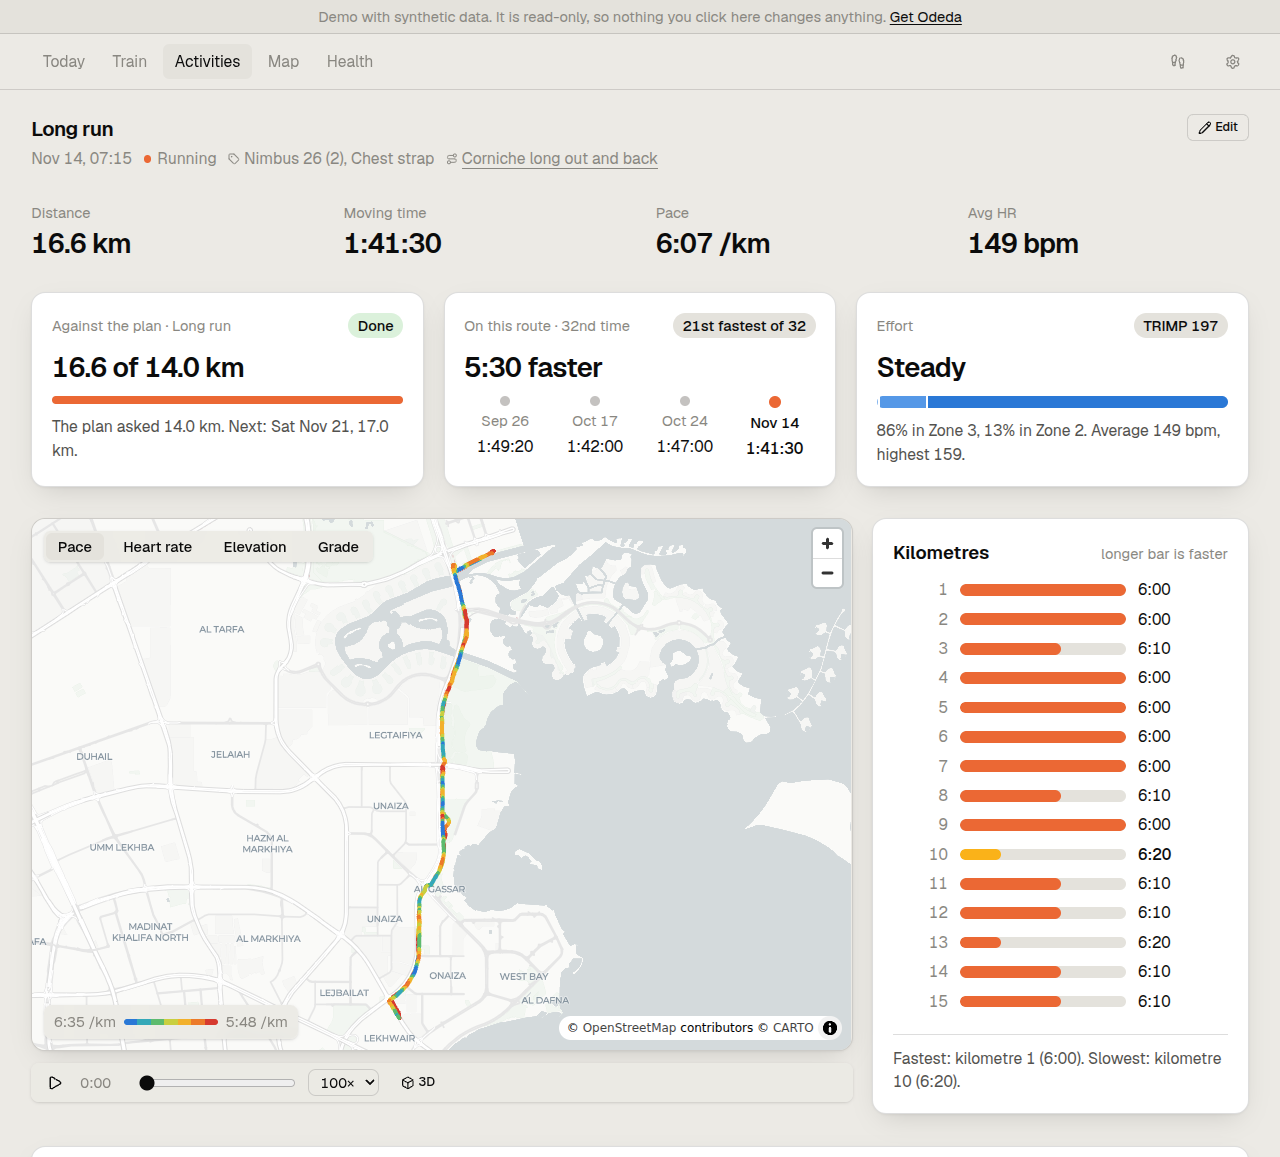
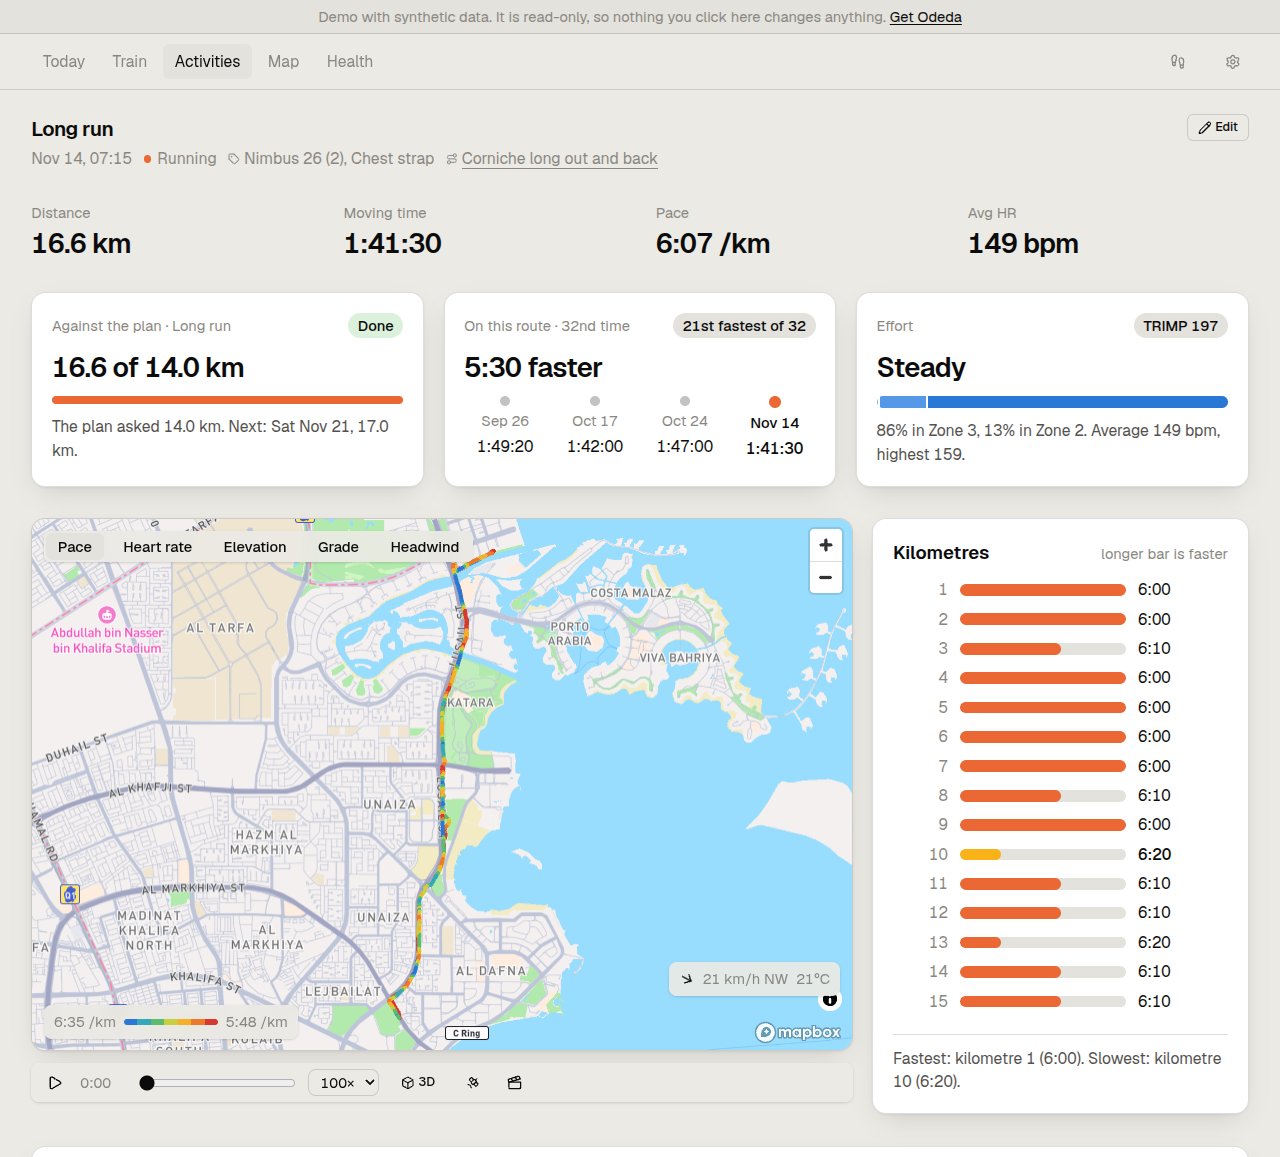
Mapbox maps on the demo, token kept off the page (#7)
The public demo now uses Mapbox maps, and the token never reaches a
visitor's browser.

**How:** `VITE_MAPBOX_PROXY=/mapbox` makes the Mapbox library ask this
site for map data (style, tiles, fonts, sprites, static images). The
demo's nginx edge adds the token on the server.

**Against abuse**
- The token is not in the page code, so there is nothing to scrape.
- Only map paths pass: styles under `mapbox/`, vector and raster tiles,
fonts, sprites, map sessions. Geocoding, directions, other accounts'
styles and write methods are refused (403). The check is on the path as
the visitor sent it, and dots or encoded slashes are refused outright.
- Limits per visitor on everything (40 requests a second), and tighter
on what costs credits (a map starting, a static image: 2 a second per
visitor, 5 a second in total). Over the limit gets 429.
- Telemetry the page would send is swallowed.
- The edge sends a `Referer` of the demo's own address, so a token
restricted to that address works.

**Cannot do:** nginx limits speed, not a monthly total. Make a token
just for the demo, restricted to `https://odeda.run/*`, and set a usage
alert in the Mapbox account. This is written into
`deploy/demo/README.md`.

**Also:** Google Maps as a later basemap choice is in `FUTURE.md`
(section 22). README screenshots retaken from the live demo. Without
`VITE_MAPBOX_PROXY` nothing changes for a normal install.

**Checked:** the map, list and activity pages through https://odeda.run
[…]

Changed region(s): [[0.0, 0.4356, 0.6875, 0.9334], [0.0312, 0.9023, 0.0625, 0.9334]]

diff --git a/frontend/src/map/mapboxProxy.ts b/frontend/src/map/mapboxProxy.ts
@@ -1,0 +1,43 @@
+// Behind a proxy (`VITE_MAPBOX_PROXY`), every request the Mapbox library makes goes to this
+// site instead, and the server adds the token. The token is then never in the page, and the
+// server can limit how fast anyone may pull map data. See `deploy/demo/nginx.conf.template`.
+
+const MAPBOX_API = /^https:\/\/api\.mapbox\.com\//;
+const MAPBOX_TILES = /^https:\/\/[a-d]\.tiles\.mapbox\.com\//;
+const MAPBOX_EVENTS = /^https:\/\/events\.mapbox\.com\//;
+
+/**
+ * Where a Mapbox request should really go. Anything that is not a Mapbox address is returned
+ * unchanged. The access token the library put on the address is dropped: the proxy has its own.
+ * Telemetry is sent to the proxy's `/events`, which swallows it.
+ */
+export function proxiedUrl(url: string, proxy: string, origin = ""): string {
+  if (proxy === "") return url;
+  // The Mapbox library fetches from background workers, which cannot resolve a relative
+  // address, so the proxy is given with this site's origin.
+  proxy = origin + proxy;
+  if (MAPBOX_EVENTS.test(url)) return `${proxy}/events`;
+  const prefix = MAPBOX_API.test(url)
+    ? `${proxy}/api/`
+    : MAPBOX_TILES.test(url)
+      ? `${proxy}/tiles/`
+      : null;
+  if (prefix === null) return url;
+  const rest = url.replace(MAPBOX_API, "").replace(MAPBOX_TILES, "");
+  return prefix + withoutToken(rest);
+}
+
+/** The path and query with any `access_token` parameter removed. */
+function withoutToken(pathAndQuery: string): string {
+  const at = pathAndQuery.indexOf("?");
+  if (at < 0) return pathAndQuery;
+  const path = pathAndQuery.slice(0, at);
+  const query = pathAndQuery.slice(at + 1);
+  const kept = query.split("&").filter((pair) => !pair.startsWith("access_token="));
+  return kept.length > 0 ? `${path}?${kept.join("&")}` : path;
+}
+
+/** `transformRequest` for the Mapbox library: the proxied address, nothing else changed. */
+export function transformThroughProxy(proxy: string, origin: string = window.location.origin) {
+  return (url: string): { url: string } => ({ url: proxiedUrl(url, proxy, origin) });
+}

diff --git a/frontend/src/map/mapboxProxy.test.ts b/frontend/src/map/mapboxProxy.test.ts
@@ -1,0 +1,58 @@
+import { describe, expect, it } from "vitest";
+import { proxiedUrl } from "@/map/mapboxProxy";
+
+describe("proxiedUrl", () => {
+  it("changes nothing without a proxy", () => {
+    const url = "https://api.mapbox.com/styles/v1/mapbox/standard?access_token=pk.real";
+    expect(proxiedUrl(url, "")).toBe(url);
+  });
+
+  it("sends the Mapbox API through the proxy and drops the token", () => {
+    expect(
+      proxiedUrl(
+        "https://api.mapbox.com/styles/v1/mapbox/standard?access_token=pk.x&sku=1",
+        "/mapbox",
+      ),
+    ).toBe("/mapbox/api/styles/v1/mapbox/standard?sku=1");
+  });
+
+  it("drops a query that held only the token", () => {
+    expect(
+      proxiedUrl("https://api.mapbox.com/fonts/v1/mapbox/a/0-255.pbf?access_token=pk.x", "/mapbox"),
+    ).toBe("/mapbox/api/fonts/v1/mapbox/a/0-255.pbf");
+  });
+
+  it("keeps a path that has no query", () => {
+    expect(
+      proxiedUrl("https://api.mapbox.com/v4/mapbox.mapbox-streets-v8/1/2/3.vector.pbf", "/mapbox"),
+    ).toBe("/mapbox/api/v4/mapbox.mapbox-streets-v8/1/2/3.vector.pbf");
+  });
+
+  it("sends the tile hosts through the proxy too", () => {
+    expect(
+      proxiedUrl("https://a.tiles.mapbox.com/v4/x/1/2/3.png?access_token=pk.x", "/mapbox"),
+    ).toBe("/mapbox/tiles/v4/x/1/2/3.png");
+  });
+
+  it("sends telemetry to the proxy's sink", () => {
+    expect(proxiedUrl("https://events.mapbox.com/events/v2?access_token=pk.x", "/mapbox")).toBe(
+      "/mapbox/events",
+    );
+  });
+
+  it("uses this site's origin when given one, so workers can resolve it", () => {
+    expect(
+      proxiedUrl(
+        "https://api.mapbox.com/v4/a/1/2/3.vector.pbf?access_token=pk.x",
+        "/mapbox",
+        "https://odeda.run",
+      ),
+    ).toBe("https://odeda.run/mapbox/api/v4/a/1/2/3.vector.pbf");
+  });
+
+  it("leaves other addresses alone", () => {
+    expect(proxiedUrl("https://example.com/a?access_token=1", "/mapbox")).toBe(
+      "https://example.com/a?access_token=1",
+    );
+  });
+});

diff --git a/frontend/src/map/basemap.ts b/frontend/src/map/basemap.ts
@@ -7,26 +7,41 @@ export type MapProvider = "mapbox" | "maplibre";
 /** The map settings from the environment, with unset values as "". */
 export interface MapEnv {
   mapboxToken: string;
+  /**
+   * A path on this site (for example `/mapbox`) that forwards Mapbox requests and adds the
+   * token on the server, so the token is never in the page. Set for a public demo; see
+   * `deploy/demo`. Empty means the browser talks to Mapbox directly with `mapboxToken`.
+   */
+  mapboxProxy: string;
   styleLight: string;
   styleDark: string;
 }
 
 type MapEnvSource = Pick<
   ImportMetaEnv,
-  "VITE_MAPBOX_TOKEN" | "VITE_MAP_STYLE_LIGHT" | "VITE_MAP_STYLE_DARK"
+  "VITE_MAPBOX_TOKEN" | "VITE_MAPBOX_PROXY" | "VITE_MAP_STYLE_LIGHT" | "VITE_MAP_STYLE_DARK"
 >;
 
 export function readMapEnv(source: MapEnvSource = import.meta.env): MapEnv {
   return {
     mapboxToken: (source.VITE_MAPBOX_TOKEN ?? "").trim(),
+    mapboxProxy: (source.VITE_MAPBOX_PROXY ?? "").trim().replace(/\/+$/, ""),
     styleLight: (source.VITE_MAP_STYLE_LIGHT ?? "").trim(),
     styleDark: (source.VITE_MAP_STYLE_DARK ?? "").trim(),
   };
 }
 
-/** Mapbox when a token is configured, otherwise MapLibre with free styles. */
+/** Mapbox when a token or a proxy is configured, otherwise MapLibre with free styles. */
 export function providerFor(env: MapEnv): MapProvider {
-  return env.mapboxToken !== "" ? "mapbox" : "maplibre";
+  return env.mapboxToken !== "" || env.mapboxProxy !== "" ? "mapbox" : "maplibre";
+}
+
+/**
+ * The token handed to the Mapbox library. Behind a proxy it is a placeholder: the library
+ * insists on one, and the proxy replaces it with the real one on the server.
+ */
+export function mapboxLibraryToken(env: MapEnv): string {
+  return env.mapboxProxy !== "" ? "pk.proxied" : env.mapboxToken;
 }
 
 export const mapEnv: MapEnv = readMapEnv();

diff --git a/frontend/src/map/MapboxBaseMap.tsx b/frontend/src/map/MapboxBaseMap.tsx
@@ -11,7 +11,8 @@ import {
   useMap,
 } from "react-map-gl/mapbox";
 import "mapbox-gl/dist/mapbox-gl.css";
-import { mapEnv } from "@/map/basemap";
+import { mapboxLibraryToken, mapEnv } from "@/map/basemap";
+import { transformThroughProxy } from "@/map/mapboxProxy";
 import { probeOf, type MapProbe } from "@/map/probe";
 import { useCameraDriver } from "@/map/useCameraDriver";
 import {
@@ -39,7 +40,10 @@ export function MapboxBaseMap({
   const overlay = useRef<MapboxOverlay | null>(null);
   return (
     <MapboxMap
-      mapboxAccessToken={mapEnv.mapboxToken}
+      mapboxAccessToken={mapboxLibraryToken(mapEnv)}
+      {...(mapEnv.mapboxProxy !== ""
+        ? { transformRequest: transformThroughProxy(mapEnv.mapboxProxy) }
+        : {})}
       mapStyle={mapStyle}
       initialViewState={{ bounds: initialBounds, fitBoundsOptions: { padding: FIT_PADDING_PX } }}
       style={{ width: "100%", height: "100%" }}
@@ -146,7 +150,8 @@ function ProbeReporter({
     onMap({
       ...base,
       // A reason forces deck.gl to draw now, with the view the map has just been given.
-      drawOverlay: () => (overlayRef.current as unknown as OverlayDeck | null)?._deck?.redraw("export"),
+      drawOverlay: () =>
+        (overlayRef.current as unknown as OverlayDeck | null)?._deck?.redraw("export"),
     });
     return () => onMap(null);
   }, [map, onMap, overlayRef]);

diff --git a/frontend/src/map/staticMap.ts b/frontend/src/map/staticMap.ts
@@ -40,11 +40,9 @@ export function staticMapUrl(request: StaticMapRequest, env: MapEnv = mapEnv): s
     .filter((piece) => piece !== "")
     .map((piece) => `path-3+${color}-0.95(${encodeURIComponent(piece)})`)
     .join(",");
-  const query = new URLSearchParams({
-    padding: "20",
-    logo: "false",
-    attribution: "false",
-    access_token: env.mapboxToken,
-  });
-  return `${STATIC_API}/${style}/static/${path}/auto/${width}x${height}@2x?${query.toString()}`;
+  const query = new URLSearchParams({ padding: "20", logo: "false", attribution: "false" });
+  // Behind a proxy the server adds the token; otherwise it is on the address.
+  const base = env.mapboxProxy !== "" ? `${env.mapboxProxy}/api/styles/v1` : STATIC_API;
+  if (env.mapboxProxy === "") query.set("access_token", env.mapboxToken);
+  return `${base}/${style}/static/${path}/auto/${width}x${height}@2x?${query.toString()}`;
 }

diff --git a/frontend/src/vite-env.d.ts b/frontend/src/vite-env.d.ts
@@ -3,6 +3,7 @@
 interface ImportMetaEnv {
   readonly VITE_API_URL?: string;
   readonly VITE_MAPBOX_TOKEN?: string;
+  readonly VITE_MAPBOX_PROXY?: string;
   readonly VITE_MAP_STYLE_LIGHT?: string;
   readonly VITE_MAP_STYLE_DARK?: string;
 }

diff --git a/PLAN.md b/PLAN.md
@@ -117,7 +117,7 @@ nicer.
 | 24 Flyover and video export | X: `approved` | 3 / 3 |
 | 25 Activity page additions and dev setup | Y: `approved` | 4 / 4 |
 | 26 The Plan page: steer, and change the plan | Z: `approved` | 8 / 8 |
-| 27 Ready to publish: the README and docs | AA: `open` | 14 / 15 |
+| 27 Ready to publish: the README and docs | AA: `open` | 15 / 16 |
 
 ### Phase 16 — Tidy and ship · Checkpoint P: `approved`
 
@@ -292,6 +292,7 @@ ideas are in `FUTURE.md` section 15.
 | T125 | Demo mode: `GA_DEMO=1` makes an instance read-only. A middleware refuses every non-read request under `/api/` with a 403 and a plain reason (by method, so routes added later are covered; the plan-upload preview, which only reads, stays open). No sign-in, `demo` on `/api/config`, and a banner on every page. The step before hosting a public demo | done (2026-11-19) | T124 |
 | T126 | The demo is hosted at odeda.run: `deploy/demo/` has a compose file (the read-only demo and an nginx edge), the edge config (a refuse-by-default host check, a per-visitor rate limit, a 64 KB body cap) and notes. Cloudflare in front: a proxied AAAA record to the machine's IPv6 address (the free plan always uses port 443 and the IPv4 one belongs to another site), Full (strict) with an origin certificate made from a locally generated key | done (2026-11-19) | T125 |
 | T127 | Demo polish: on a demo the footer says "Synthetic demo data" and the date range instead of a red "Garmin not connected" and a Sync button that fails; Settings leaves out the cards that cannot work (Garmin, Fitbit, sync, password) and says why; each seeded ride has its own pace (from a separate random source, so the rest of the history is unchanged), so "faster than last time" has something to say. The demo reseeded and the README screenshots retaken | done (2026-11-19) | T126 |
+| T128 | The demo shows Mapbox maps without the token in the page: `VITE_MAPBOX_PROXY` sends every map request to this site, and the demo's nginx edge adds the token on the server, allows only map paths (checked on the path as sent, dots and encoded slashes refused), and limits per visitor and overall what costs credits (a map starting, a static image). Needs a Mapbox token to deploy; Google Maps is added to `FUTURE.md` (section 22). README screenshots retaken from the live demo | done (2026-11-19) | T127 |
 
 ### Open decisions
 

diff --git a/FUTURE.md b/FUTURE.md
@@ -542,6 +542,32 @@ adds a second credential to a project whose pitch is that it holds almost none.
 
 ---
 
+## 22. Google Maps as a basemap choice
+
+*Raised 2026-11-19, while putting the demo on Mapbox.*
+
+**Why.** Today the basemap is CARTO / OpenStreetMap by default and Mapbox with a token
+(`providerFor(env)` in `frontend/src/map/`). Some people already have a Google Maps key, and
+Google's photorealistic 3D tiles would suit the flyover better than any flat style. A third choice
+costs little if it sits behind the same provider seam.
+
+**Shape.**
+- A `google` provider next to `maplibre` and `mapbox`, chosen by a build-time key like the Mapbox
+  token (`VITE_GOOGLE_MAPS_KEY`). 2D roadmap and satellite tiles from the Map Tiles API; the 3D flyover
+  from the photorealistic tiles through deck.gl's `Tile3DLayer`.
+- Static images for the activity cards from the Static Maps API, as Mapbox's are today.
+- Attribution and the logo kept on screen, and no tiles stored or cached beyond what Google allows;
+  their terms are stricter than Mapbox's here, so read them before building.
+- The key restricted by referrer in the owner's Google Cloud project, and a budget alert set. Like the
+  Mapbox token, it ends up in the page code.
+
+**Open question.** Cost. Google bills per tile or session after a free allowance, so a public demo on
+it is worth pricing first. The demo stays on Mapbox until then.
+
+**Build when:** someone asks for it, or the photorealistic flyover is wanted. Not before.
+
+---
+
 ## Video export, ideas not built
 
 The export takes about 0:38 for a 60 s HD vertical video and is now limited by the encoder

diff --git a/deploy/demo/README.md b/deploy/demo/README.md
@@ -7,7 +7,16 @@ only synthetic data, behind Cloudflare. Nothing here is needed to use Odeda your
 visitor -> Cloudflare (odeda.run) -> this machine, IPv6, port 443 (nginx) -> odeda-demo
 ```
 
-1. **Image.** Build it from the repository root: `docker build -t odeda:demo .`
+1. **Image.** `docker compose up -d --build` builds it from this checkout (pull `main` first).
+   **The maps need a Mapbox token.** Put it in `.env` as `MAPBOX_TOKEN`. The page never holds
+   it: it asks the edge for map data under `/mapbox/`, and the edge adds the token on the
+   server, allows only map requests (no geocoding or directions, no other accounts' styles)
+   and limits how fast any one visitor, and all visitors together, can load maps and static
+   images. Make a token just for the demo, with only the public scopes, restricted to
+   `https://odeda.run/*`, and set a usage alert in your Mapbox account. The limits slow abuse
+   down; they cannot cap a monthly bill. Without a token the basemap is blank; to use the free
+   CARTO maps instead, build with `VITE_MAPBOX_PROXY=` set to nothing. Google Maps is a possible
+   later addition (`FUTURE.md`).
 2. **Volume.** `docker volume create odeda-demo-data`, then seed it once:
    `docker run --rm -e TZ=Asia/Qatar -e GA_DATA_DIR=/data -e GA_DB=/data/garmin.db -e GA_RAW_DIR=/data/raw_archive -e GA_TOKEN_DIR=/data/tokens -v odeda-demo-data:/data odeda:demo seed`.
    Load a plan with `python3 scripts/demo-plan.py apply`. A demo refuses every change, so load it

diff --git a/CHANGELOG.md b/CHANGELOG.md
@@ -8,6 +8,9 @@ version, tagged `vMAJOR.MINOR.PATCH`.
 
 ## Unreleased
 
+- **Mapbox on the public demo, without the token on the page:** `VITE_MAPBOX_PROXY` makes the map library
+  ask this site for map data and a server in front (`deploy/demo`) adds the token, allows only map
+  requests and limits how fast they can be made.
 - **Hosting the demo:** `deploy/demo/` has what runs the public demo at odeda.run behind Cloudflare.
 - **Demo mode:** `GA_DEMO=1` makes an instance read-only for a public demo. Every change is refused with a
   clear message, there is no sign-in, and a banner says the data is synthetic.
